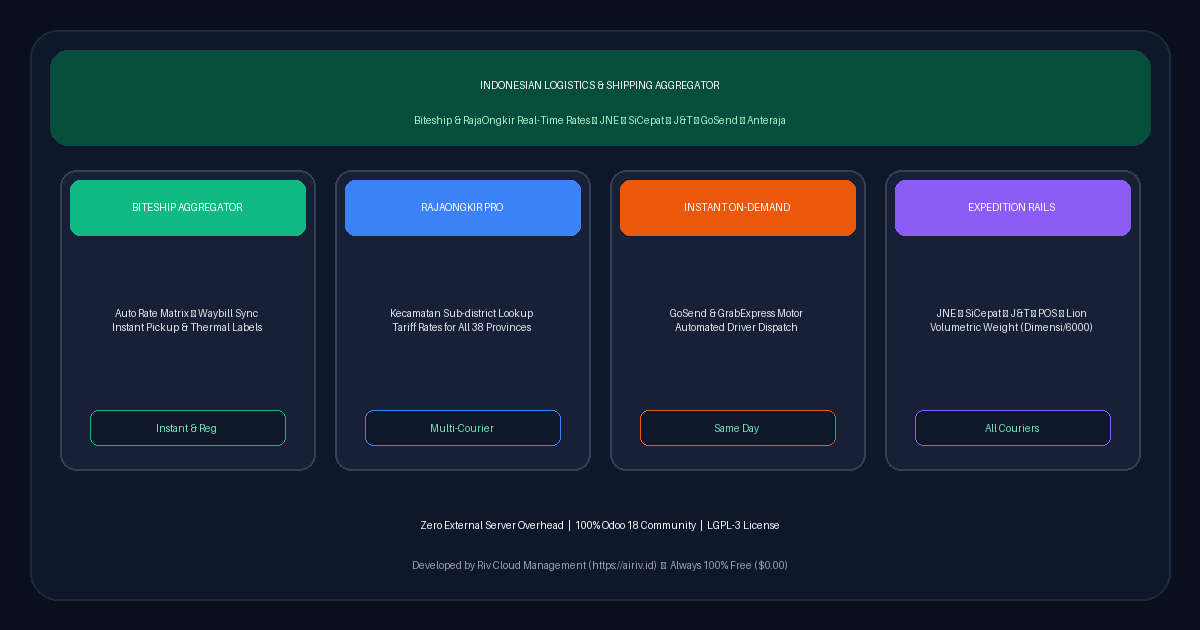
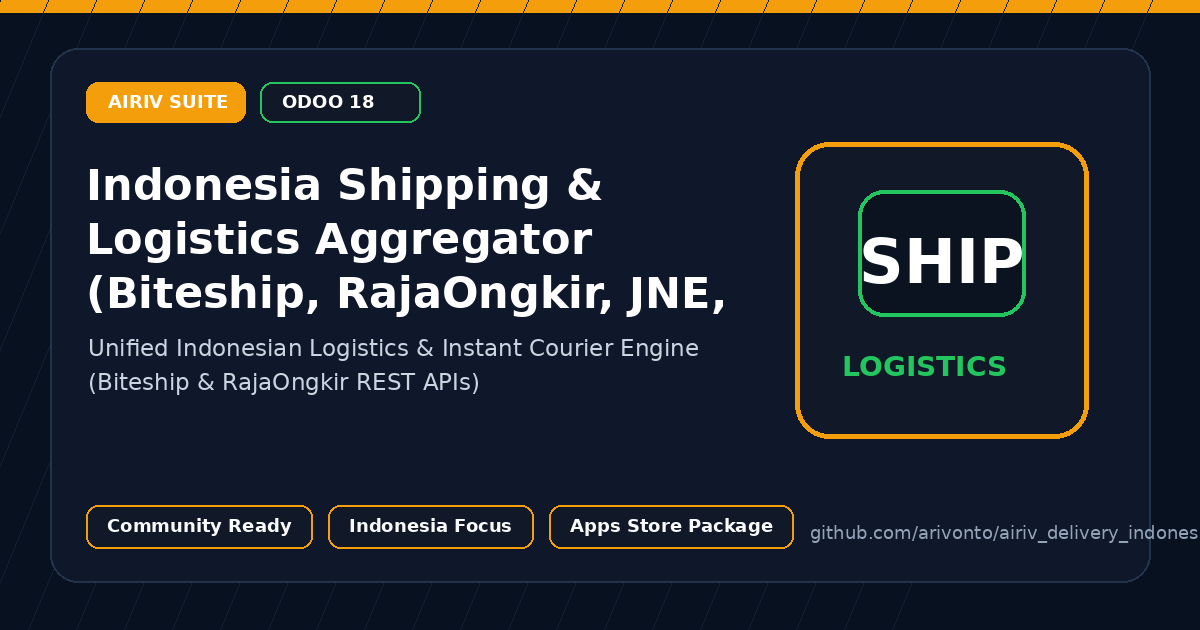
Refresh Odoo Apps Store assets and metadata

diff --git a/airiv_delivery_indonesia/static/description/index.html b/airiv_delivery_indonesia/static/description/index.html
@@ -1,172 +1,38 @@
 <!DOCTYPE html>
-<html lang="id">
+<html lang="en">
 <head>
-    <meta charset="utf-8"/>
-    <meta name="viewport" content="width=device-width, initial-scale=1.0"/>
-    <title>Indonesia Shipping Aggregator & Multi-Courier Resi Sync</title>
+  <meta charset="utf-8">
+  <meta name="viewport" content="width=device-width, initial-scale=1">
+  <title>Indonesia Shipping & Logistics Aggregator (Biteship, RajaOngkir, JNE, SiCepat, J&T, GoSend)</title>
+  <style>
+    body { margin:0; font-family: Arial, sans-serif; color:#14212f; background:#fff; }
+    .hero { padding:44px; border-radius:18px; background:#08111f; color:#fff; }
+    .badge { display:inline-block; padding:8px 12px; border-radius:999px; background:#0f766e; font-weight:700; font-size:13px; }
+    h1 { font-size:38px; line-height:1.15; margin:20px 0 12px; }
+    .lead { font-size:18px; color:#cbd5e1; max-width:900px; }
+    .grid { display:grid; grid-template-columns:repeat(3,1fr); gap:18px; margin:24px 0; }
+    .card { border:1px solid #e5e7eb; border-radius:14px; padding:22px; background:#fff; }
+    .card h3 { margin-top:0; color:#0f766e; }
+    .section { padding:28px 0; }
+    @media (max-width: 800px) { .grid { grid-template-columns:1fr; } h1 { font-size:30px; } .hero { padding:28px; } }
+  </style>
 </head>
-<body style="font-family: -apple-system, BlinkMacSystemFont, 'Segoe UI', Roboto, Helvetica, Arial, sans-serif; color: #0f172a; background-color: #ffffff; margin: 0; padding: 16px; box-sizing: border-box;">
-
-<!-- 1. Hero Card (Clean High-Contrast Light Theme) -->
-<div style="background-color: #f8fafc; border: 1px solid #cbd5e1; border-top: 6px solid #d97706; border-radius: 12px; padding: 32px 24px; margin-bottom: 32px; text-align: center; box-shadow: 0 4px 6px -1px rgba(0,0,0,0.05);">
-    <div style="display: inline-block; background-color: #d97706; color: #ffffff; font-size: 12px; font-weight: 800; padding: 6px 14px; border-radius: 20px; margin-bottom: 14px; text-transform: uppercase; letter-spacing: 0.5px;">
-        🇮🇩 INDONESIA LOGISTICS & RESI BRIDGE
+<body>
+  <div class="hero">
+    <span class="badge">AIRIV Suite for Odoo 18</span>
+    <h1>Indonesia Shipping & Logistics Aggregator (Biteship, RajaOngkir, JNE, SiCepat, J&T, GoSend)</h1>
+    <p class="lead">Unified Indonesian Logistics & Instant Courier Engine (Biteship & RajaOngkir REST APIs)</p>
+  </div>
+  <div class="section">
+    <div class="grid">
+      <div class="card"><h3>Business Ready</h3><p>Packaged as a focused Odoo application for Indonesian operating workflows.</p></div>
+      <div class="card"><h3>Community First</h3><p>Designed for Odoo 18 with clear dependencies, clean manifest metadata, and Apps Store assets.</p></div>
+      <div class="card"><h3>AIRIV UX</h3><p>Part of the AIRIV vertical ERP suite with consistent identity, iconography, and product positioning.</p></div>
     </div>
-    <h1 style="font-weight: 800; font-size: 28px; color: #0f172a; margin-top: 0; margin-bottom: 12px; line-height: 1.3;">
-        Indonesia Shipping Aggregator & Multi-Courier Resi Sync
-    </h1>
-    <p style="font-size: 15.5px; color: #334155; max-width: 850px; margin: 0 auto 20px auto; line-height: 1.65;">
-        Direct Indonesian courier aggregator integration for Odoo 18. Real-time rate calculation, automatic waybill/resi creation, and live tracking for JNE, J&T, SiCepat, GoSend, GrabExpress, and Pos Indonesia.
-    </p>
-    <div style="display: flex; justify-content: center; gap: 8px; flex-wrap: wrap;">
-        <span style="display: inline-block; background-color: #e2e8f0; color: #0f172a; border: 1px solid #cbd5e1; font-size: 12px; font-weight: 600; padding: 5px 12px; border-radius: 6px;">Odoo 18.0 Community</span>
-        <span style="display: inline-block; background-color: #e2e8f0; color: #0f172a; border: 1px solid #cbd5e1; font-size: 12px; font-weight: 600; padding: 5px 12px; border-radius: 6px;">LGPL-3 License</span>
-        <span style="display: inline-block; background-color: #059669; color: #ffffff; font-size: 12px; font-weight: 700; padding: 5px 12px; border-radius: 6px;">100% Free ($0.00)</span>
-        <span style="display: inline-block; background-color: #e2e8f0; color: #0f172a; border: 1px solid #cbd5e1; font-size: 12px; font-weight: 600; padding: 5px 12px; border-radius: 6px;">Zero External Overhead</span>
-    </div>
-</div>
-
-<!-- 2. Showcase Banner Image -->
-<div style="text-align: center; margin-bottom: 36px;">
-    <img src="banner.png" alt="Indonesia Shipping Aggregator & Multi-Courier Resi Sync" style="border-radius: 12px; border: 1px solid #cbd5e1; max-width: 100%; height: auto; box-shadow: 0 4px 6px -1px rgba(0,0,0,0.08);"/>
-</div>
-
-<!-- 3. Core Pillars -->
-<div style="margin-bottom: 36px;">
-    <div style="text-align: center; margin-bottom: 24px;">
-        <h2 style="font-weight: 800; color: #0f172a; font-size: 22px; margin-top: 0; margin-bottom: 6px;">
-            Core Capabilities & Architecture
-        </h2>
-        <p style="color: #475569; font-size: 14.5px; margin: 0;">
-            Engineered specifically for Indonesian statutory compliance and operational efficiency
-        </p>
-    </div>
-
-    <div style="display: flex; flex-wrap: wrap; gap: 16px;">
-        
-        <div style="flex: 1 1 calc(25% - 16px); min-width: 240px; box-sizing: border-box; margin-bottom: 16px;">
-            <div style="background-color: #ffffff; border: 1px solid #cbd5e1; border-top: 5px solid #d97706; border-radius: 10px; padding: 20px; height: 100%; box-shadow: 0 2px 4px rgba(0,0,0,0.04); box-sizing: border-box;">
-                <h4 style="font-weight: 800; color: #0f172a; margin-top: 0; margin-bottom: 10px; font-size: 16px;">10+ Integrated Couriers</h4>
-                <p style="font-size: 13.5px; color: #334155; line-height: 1.6; margin-bottom: 14px;">Instant rate lookup for JNE, J&T, SiCepat, Anteraja, Ninja, Lion, GoSend, and Grab.</p>
-                <div style="display: inline-block; background-color: #d97706; color: #ffffff; font-size: 11px; font-weight: 700; padding: 4px 10px; border-radius: 6px; text-transform: uppercase; letter-spacing: 0.5px;">
-                    Multi-Ekspedisi
-                </div>
-            </div>
-        </div>
-        
-        <div style="flex: 1 1 calc(25% - 16px); min-width: 240px; box-sizing: border-box; margin-bottom: 16px;">
-            <div style="background-color: #ffffff; border: 1px solid #cbd5e1; border-top: 5px solid #0284c7; border-radius: 10px; padding: 20px; height: 100%; box-shadow: 0 2px 4px rgba(0,0,0,0.04); box-sizing: border-box;">
-                <h4 style="font-weight: 800; color: #0f172a; margin-top: 0; margin-bottom: 10px; font-size: 16px;">Biteship & RajaOngkir API</h4>
-                <p style="font-size: 13.5px; color: #334155; line-height: 1.6; margin-bottom: 14px;">Direct REST connectivity with fallback offline tariff matrix and sandbox simulator.</p>
-                <div style="display: inline-block; background-color: #0284c7; color: #ffffff; font-size: 11px; font-weight: 700; padding: 4px 10px; border-radius: 6px; text-transform: uppercase; letter-spacing: 0.5px;">
-                    Aggregator Gateway
-                </div>
-            </div>
-        </div>
-        
-        <div style="flex: 1 1 calc(25% - 16px); min-width: 240px; box-sizing: border-box; margin-bottom: 16px;">
-            <div style="background-color: #ffffff; border: 1px solid #cbd5e1; border-top: 5px solid #059669; border-radius: 10px; padding: 20px; height: 100%; box-shadow: 0 2px 4px rgba(0,0,0,0.04); box-sizing: border-box;">
-                <h4 style="font-weight: 800; color: #0f172a; margin-top: 0; margin-bottom: 10px; font-size: 16px;">Auto Resi / AWB Generation</h4>
-                <p style="font-size: 13.5px; color: #334155; line-height: 1.6; margin-bottom: 14px;">Generates live shipping labels and tracking waybills upon delivery order validation.</p>
-                <div style="display: inline-block; background-color: #059669; color: #ffffff; font-size: 11px; font-weight: 700; padding: 4px 10px; border-radius: 6px; text-transform: uppercase; letter-spacing: 0.5px;">
-                    Nomor Resi
-                </div>
-            </div>
-        </div>
-        
-        <div style="flex: 1 1 calc(25% - 16px); min-width: 240px; box-sizing: border-box; margin-bottom: 16px;">
-            <div style="background-color: #ffffff; border: 1px solid #cbd5e1; border-top: 5px solid #7c3aed; border-radius: 10px; padding: 20px; height: 100%; box-shadow: 0 2px 4px rgba(0,0,0,0.04); box-sizing: border-box;">
-                <h4 style="font-weight: 800; color: #0f172a; margin-top: 0; margin-bottom: 10px; font-size: 16px;">WhatsApp Tracking Link</h4>
-                <p style="font-size: 13.5px; color: #334155; line-height: 1.6; margin-bottom: 14px;">Sends automated live tracking links and shipment milestone updates to buyers.</p>
-                <div style="display: inline-block; background-color: #7c3aed; color: #ffffff; font-size: 11px; font-weight: 700; padding: 4px 10px; border-radius: 6px; text-transform: uppercase; letter-spacing: 0.5px;">
-                    Notifikasi WA
-                </div>
-            </div>
-        </div>
-        
-    </div>
-</div>
-
-<!-- 4. Key Enterprise Features -->
-<div style="background-color: #f8fafc; border: 1px solid #cbd5e1; border-radius: 12px; padding: 28px 20px; margin-bottom: 36px;">
-    <h3 style="font-weight: 800; color: #0f172a; font-size: 18px; margin-top: 0; margin-bottom: 18px; border-bottom: 2px solid #e2e8f0; padding-bottom: 10px;">
-        Key Enterprise Features & Workflow Automation
-    </h3>
-    <div style="display: flex; flex-wrap: wrap; gap: 16px;">
-        
-        <div style="flex: 1 1 calc(50% - 16px); min-width: 280px; box-sizing: border-box; margin-bottom: 16px;">
-            <div style="background-color: #ffffff; border: 1px solid #e2e8f0; border-left: 4px solid #d97706; border-radius: 8px; padding: 16px; height: 100%; box-sizing: border-box;">
-                <h5 style="font-weight: 700; color: #0f172a; margin-top: 0; margin-bottom: 8px; font-size: 15px;">1. Multi-Courier Tariff Matrix</h5>
-                <p style="color: #334155; font-size: 13.5px; line-height: 1.6; margin: 0;">Compare shipping costs across regular, cargo, express, and instant couriers in real time.</p>
-            </div>
-        </div>
-        
-        <div style="flex: 1 1 calc(50% - 16px); min-width: 280px; box-sizing: border-box; margin-bottom: 16px;">
-            <div style="background-color: #ffffff; border: 1px solid #e2e8f0; border-left: 4px solid #d97706; border-radius: 8px; padding: 16px; height: 100%; box-sizing: border-box;">
-                <h5 style="font-weight: 700; color: #0f172a; margin-top: 0; margin-bottom: 8px; font-size: 15px;">2. Geodesic District Mapping</h5>
-                <p style="color: #334155; font-size: 13.5px; line-height: 1.6; margin: 0;">Accurate sub-district (Kecamatan) and postal code routing across all Indonesian provinces.</p>
-            </div>
-        </div>
-        
-        <div style="flex: 1 1 calc(50% - 16px); min-width: 280px; box-sizing: border-box; margin-bottom: 16px;">
-            <div style="background-color: #ffffff; border: 1px solid #e2e8f0; border-left: 4px solid #d97706; border-radius: 8px; padding: 16px; height: 100%; box-sizing: border-box;">
-                <h5 style="font-weight: 700; color: #0f172a; margin-top: 0; margin-bottom: 8px; font-size: 15px;">3. Native Stock Picking Binds</h5>
-                <p style="color: #334155; font-size: 13.5px; line-height: 1.6; margin: 0;">Embeds directly into standard Delivery Orders with automated tracking state transitions.</p>
-            </div>
-        </div>
-        
-        <div style="flex: 1 1 calc(50% - 16px); min-width: 280px; box-sizing: border-box; margin-bottom: 16px;">
-            <div style="background-color: #ffffff; border: 1px solid #e2e8f0; border-left: 4px solid #d97706; border-radius: 8px; padding: 16px; height: 100%; box-sizing: border-box;">
-                <h5 style="font-weight: 700; color: #0f172a; margin-top: 0; margin-bottom: 8px; font-size: 15px;">4. Thermal Shipping Labels</h5>
-                <p style="color: #334155; font-size: 13.5px; line-height: 1.6; margin: 0;">Prints standardized 100x150mm barcode shipping labels for warehouse packing stations.</p>
-            </div>
-        </div>
-        
-    </div>
-</div>
-
-<!-- 5. Technical Specifications Table -->
-<div style="margin-bottom: 36px;">
-    <h3 style="font-weight: 800; color: #0f172a; font-size: 18px; margin-top: 0; margin-bottom: 14px;">
-        Module Technical Specifications
-    </h3>
-    <div style="overflow-x: auto;">
-        <table style="width: 100%; border-collapse: collapse; font-size: 13.5px; border: 1px solid #cbd5e1; background-color: #ffffff;">
-            <tbody>
-                <tr style="border-bottom: 1px solid #cbd5e1;">
-                    <td style="font-weight: 700; width: 30%; background-color: #f1f5f9; color: #0f172a; padding: 12px 16px; border-right: 1px solid #cbd5e1;">Framework Compatibility</td>
-                    <td style="color: #0f172a; padding: 12px 16px;">Odoo 18.0 Community Edition (OWL 2.0 & App Drawer Native)</td>
-                </tr>
-                <tr style="border-bottom: 1px solid #cbd5e1;">
-                    <td style="font-weight: 700; background-color: #f1f5f9; color: #0f172a; padding: 12px 16px; border-right: 1px solid #cbd5e1;">License & Price</td>
-                    <td style="color: #0f172a; padding: 12px 16px;">GNU LGPL-3 &bull; <strong style="color: #059669;">Free ($0.00)</strong></td>
-                </tr>
-                <tr style="border-bottom: 1px solid #cbd5e1;">
-                    <td style="font-weight: 700; background-color: #f1f5f9; color: #0f172a; padding: 12px 16px; border-right: 1px solid #cbd5e1;">Dependencies</td>
-                    <td style="color: #0f172a; padding: 12px 16px;"><code style="background-color: #f1f5f9; color: #0f172a; padding: 2px 6px; border-radius: 4px; font-weight: 600;">base, delivery, stock, sale</code></td>
-                </tr>
-                <tr style="border-bottom: 1px solid #cbd5e1;">
-                    <td style="font-weight: 700; background-color: #f1f5f9; color: #0f172a; padding: 12px 16px; border-right: 1px solid #cbd5e1;">Regulatory Standards</td>
-                    <td style="color: #0f172a; padding: 12px 16px;">Biteship REST API v1, RajaOngkir Pro Standard, Indonesian Postal Formatting</td>
-                </tr>
-                <tr>
-                    <td style="font-weight: 700; background-color: #f1f5f9; color: #0f172a; padding: 12px 16px; border-right: 1px solid #cbd5e1;">Developer</td>
-                    <td style="color: #0f172a; padding: 12px 16px;">Riv Cloud Management (<a href="https://airiv.id" target="_blank" style="color: #0284c7; text-decoration: underline; font-weight: 600;">https://airiv.id</a>)</td>
-                </tr>
-            </tbody>
-        </table>
-    </div>
-</div>
-
-<!-- 6. Footer -->
-<div style="text-align: center; padding: 20px 0; border-top: 1px solid #cbd5e1; color: #475569; font-size: 13.5px;">
-    <p style="margin-bottom: 8px; color: #334155;">
-        Developed for Indonesian Businesses & Enterprises &bull; <strong>Riv Cloud Management</strong>
-    </p>
-    <a href="https://airiv.id" target="_blank" style="display: inline-block; background-color: #0f172a; color: #ffffff; font-weight: 700; padding: 7px 18px; border-radius: 6px; text-decoration: none; font-size: 12.5px;">
-        Visit airiv.id
-    </a>
-</div>
-
+  </div>
+  <div class="section">
+    <h2>Overview</h2>
+    <p>Unified Indonesian Shipping & Delivery Connector for Odoo 18 Community. - Biteship API Integration (JNE, SiCepat, J&T, Anteraja, GoSend, GrabExpress, POS, Lion) - RajaOngkir Integration (Starter, Basic, and PRO sub-district rate engine) - Real-Time Shipping Cost Calculation & Volumetric Weight Conversion (Dimensi / 6000) - Automated Tracking Number & Waybill (AWB / Resi) Synchronization - Zero External Server Overhead - Direct REST API Client</p>
+  </div>
 </body>
 </html>

diff --git a/airiv_delivery_indonesia/__manifest__.py b/airiv_delivery_indonesia/__manifest__.py
@@ -14,10 +14,11 @@ Unified Indonesian Shipping & Delivery Connector for Odoo 18 Community.
 """,
     'author': 'Riv Cloud Management',
     'website': 'https://airiv.id',
+    'url': 'https://github.com/arivonto/airiv_delivery_indonesia/blob/18.0/static/description/index.html',
     'license': 'LGPL-3',
     'price': 0.0,
     'currency': 'EUR',
-    'depends': ['delivery', 'stock', 'sale_management'],
+    'depends': ['delivery', 'stock', 'sale_management', 'airiv_os_core'],
     'data': [
         'security/ir.model.access.csv',
         'views/delivery_carrier_views.xml',

diff --git a/README.md b/README.md
@@ -1,102 +1,27 @@
-# Indonesia Shipping & Logistics Aggregator (Biteship, RajaOngkir, Local Couriers)
+# Indonesia Shipping & Logistics Aggregator (Biteship, RajaOngkir, JNE, SiCepat, J&T, GoSend)
 
-[![License: LGPL-3](https://img.shields.io/badge/License-LGPL--3-blue.svg)](https://www.gnu.org/licenses/lgpl-3.0)
-[![Odoo: 18.0 Community](https://img.shields.io/badge/Odoo-18.0%20Community-purple.svg)](https://www.odoo.com)
-[![Price: Free ($0.00)](https://img.shields.io/badge/Price-%240.00%20(Free)-green.svg)](https://airiv.id)
-[![Target: Indonesia Logistics](https://img.shields.io/badge/Market-Indonesia%20Couriers-green.svg)](https://airiv.id)
+Unified Indonesian Logistics & Instant Courier Engine (Biteship & RajaOngkir REST APIs)
 
-A complete, high-performance logistics and courier aggregator connector developed specifically for **Odoo 18.0 Community Edition**. Built to empower Indonesian e-commerce businesses, wholesale distributors, and UMKM enterprises with automated real-time shipping rate calculations, sub-district (*kecamatan*) precision, instant motorcycle courier dispatching, and automated waybill (*nomor resi*) tracking—all with **zero external server overhead** and native App Drawer integration.
+## Odoo Apps Store
 
----
+This repository contains the Odoo 18 module package for `airiv_delivery_indonesia`.
 
-## Detailed Features & Supported Courier Networks
+Required store assets are maintained in:
 
-### 1. Biteship Shipping Aggregator
-* **Multi-Courier Real-Time Rates**: Dynamic pricing queries covering major Indonesian domestic logistics providers:
-  * **JNE Express**: Regular (REG), Yakin Esok Sampai (YES), JNE Trucking / Cargo (JTR).
-  * **SiCepat Ekspres**: SiUntung (Regular), Best (Next Day), Gokil (Cargo).
-  * **J&T Express**: EZ (Standard Regular), J&T Super, J&T Cargo.
-  * **Anteraja**: Regular, Next Day, Same Day, Cargo.
-  * **POS Indonesia**: Pos Reguler, Pos Next Day, Pos Kilat Khusus, EMS Internasional.
-  * **TIKI**: Regular (REG), Over Night Service (ONS), Trucking Service (TRC).
-  * **Lion Parcel**: ONEPACK, REGPACK, JAGOPACK, BIGPACK.
-* **On-Demand & Instant Motorcycle Dispatch**: Real-time integration with **GoSend** (Instant & SameDay) and **GrabExpress** for local same-day parcel deliveries with automated driver pickup coordination.
-* **Automatic Waybill & Resi Synchronization**: Generates and syncs official carrier tracking numbers (AWB / Resi) directly to Odoo delivery orders (`stock.picking`).
-* **Thermal Shipping Label Retrieval**: Fetch direct thermal print URLs (`80mm` and `100x150mm` sticker labels) directly from the delivery interface.
+```text
+airiv_delivery_indonesia/static/description/
+  icon.png
+  banner.png
+  index.html
+```
 
-### 2. RajaOngkir Tariff Engine
-* **Complete 38-Province Geographical Database**: Supports destination lookups down to Province (*Provinsi*), City/Regency (*Kota/Kabupaten*), and Sub-District (*Kecamatan*).
-* **Multi-Tier Compatibility**: Fully supports RajaOngkir Starter, Basic, and PRO account configurations.
-* **Cross-Border Postal Calculations**: International shipping tariff lookups via POS Indonesia EMS and international express partners.
+## Technical
 
-### 3. Volumetric Weight Calculation Standard
-Automated calculation matching the Indonesian logistics standard:
+- Odoo version: `18.0.1.0.0`
+- License: `LGPL-3`
+- Author: `Riv Cloud Management`
+- Website: `https://airiv.id`
 
-$$\text{Volumetric Weight (kg)} = \frac{\text{Length (cm)} \times \text{Width (cm)} \times \text{Height (cm)}}{6000}$$
+## Quality Gate
 
-The system automatically compares physical weight against dimensional weight and submits the chargeable weight to courier pricing APIs.
-
----
-
-## API Credential Acquisition Guide
-
-### A. Biteship Setup (Sandbox & Production)
-1. Register or log in to the [Biteship Merchant Dashboard](https://dashboard.biteship.com/).
-2. Navigate to **Developers > API Keys** in the sidebar.
-3. Copy your API Key:
-   * **Sandbox Key**: e.g., `biteship_test.eyJhbGciOi...`
-   * **Production Key**: e.g., `biteship_live.eyJhbGciOi...`
-4. Retrieve your warehouse **Origin Area ID**:
-   * Go to **Locations > Warehouse / Origin Address**.
-   * Copy the 10-digit Area ID code (e.g., `IDNP6IDNC148IDND859IDZ15412` for South Tangerang / Jakarta area).
-5. (Optional) In **Webhooks**, set the Tracking Notification endpoint to: `https://your-domain.com/delivery/biteship/webhook`.
-
----
-
-### B. RajaOngkir Setup (Starter, Basic, PRO)
-1. Log in to the [RajaOngkir Portal](https://rajaongkir.com/).
-2. Go to **Account Panel > API Key**.
-3. Copy your **API Key** (e.g., `a1b2c3d4e5f67890abcdef1234567890`).
-4. Select your account tier (**Starter**, **Basic**, or **PRO**) based on your subscription.
-5. Retrieve your origin **City ID** (Starter/Basic) or **Sub-district ID** (PRO) from the location reference list.
-
----
-
-## Installation & Odoo Configuration
-
-1. **Deploy Module Files**:
-   Ensure `airiv_delivery_indonesia` is placed in your Odoo `custom_addons` directory.
-
-2. **Activate Module**:
-   * Enable Developer Mode (`?debug=1`).
-   * Navigate to **Apps > Update Apps List**.
-   * Search for `Indonesia Shipping & Logistics Aggregator` and click **Activate**.
-
-3. **Access via App Drawer**:
-   * Click the top-left **9-dot App Switcher** (App Drawer).
-   * Open the **Indonesian Logistics** application.
-
-4. **Configure Shipping Methods**:
-   * Navigate to **Operations > Courier Services**.
-   * Create or select a carrier service (e.g., *Biteship - JNE Regular*, *Biteship - SiCepat*, *RajaOngkir - J&T*).
-   * Under the **Biteship Aggregator** or **RajaOngkir Engine** tab, paste your API Key and Origin Area ID.
-   * Select your courier code and service tier filter.
-   * Click **Save**.
-
-5. **Sales Orders & Outgoing Deliveries**:
-   * When creating a Sales Quotation, click **Add Shipping** to fetch live courier rates.
-   * Confirm the sale order; when validating the Delivery Order in **Operations > Waybills & Shipments (Resi)**, the tracking waybill number and label link are generated automatically.
-
----
-
-## Module Specifications
-
-| Specification | Details |
-| :--- | :--- |
-| **Framework Version** | Odoo 18.0 Community Edition (OWL client & App Drawer compliant) |
-| **License** | GNU Lesser General Public License v3.0 (LGPL-3) |
-| **Price** | Free ($0.00) |
-| **Dependencies** | `delivery`, `stock`, `sale_management` |
-| **Server Overhead** | Zero (direct asynchronous API calls, no relay servers) |
-| **Volumetric Divisor** | Standard 6,000 (air/land freight) |
-| **Localization Standard** | Indonesian Rupiah (Rp), Grams / Kilograms, WIB (UTC+7) |
+GitHub Actions runs the AIRIV Odoo Apps Store CI audit on branch `18.0`.
